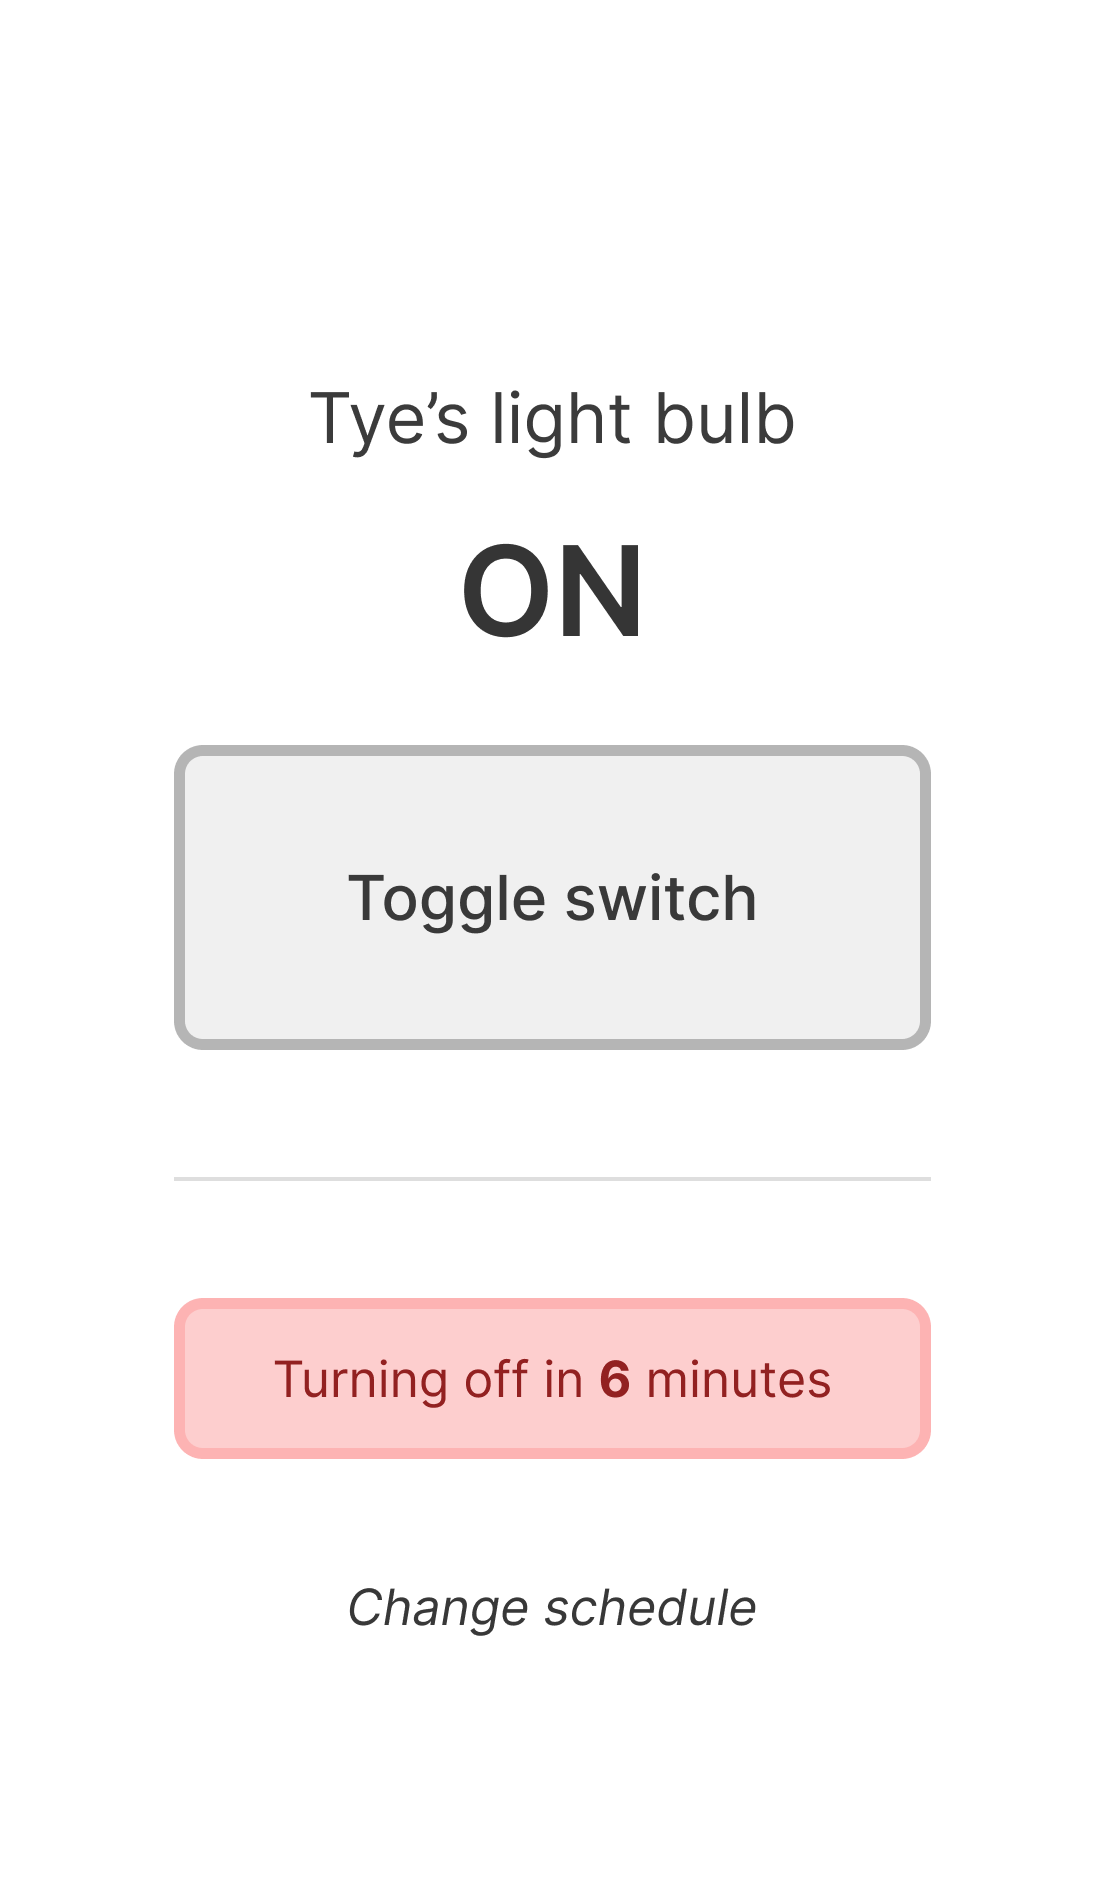
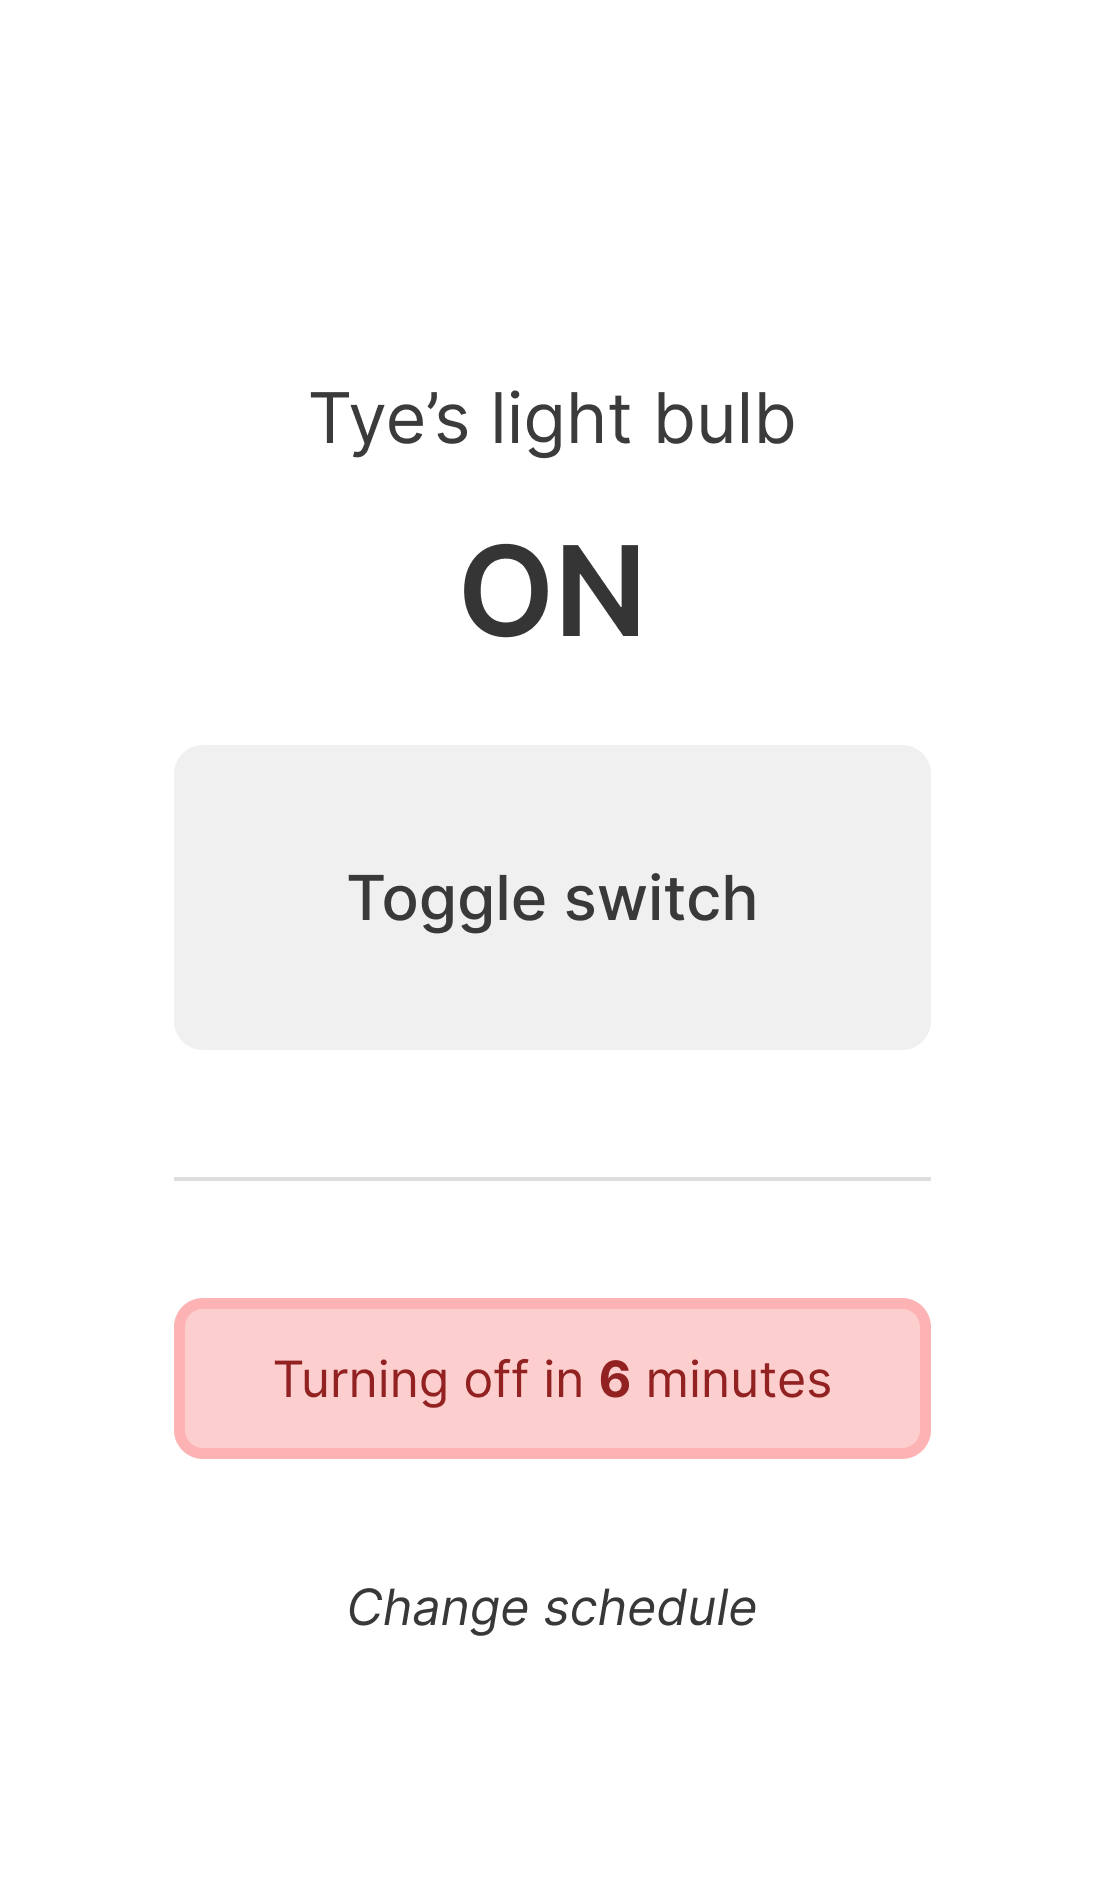
Update & Add modal

Changed region(s): [[0.1538, 0.3734, 0.8615, 0.5601]]

diff --git a/Website/index.html b/Website/index.html
@@ -11,11 +11,58 @@
     <title>Remote</title>
   </head>
   <body>
-    <main class="container d-flex flex-column justify-content-center">
-      <h2 class="text-center">[Bulb_Name]</h2>
-      <h1 class="text-center">[Bulb_Status]</h1>
-      <div class="card">
-        <h2 class="card-header font-weight-bold">Toggle switch</h2>
+    <main class="mt-5 container-fluid d-flex flex-column align-items-center">
+      <h2 style="color: #3c3c3c" class="text-center">[Bulb_Name]</h2>
+      <h1 style="color: #353535" class="text-center font-weight-bold">
+        [Bulb_Status]
+      </h1>
+      <button
+        class="btn btn-light col-5 m-3"
+        style="color: #353535; padding: 45px !important"
+        class="font-weight-bold secondaryColour"
+      >
+        Toggle switch
+      </button>
+      <hr class="hr w-100" />
+      <!--add info or alert here-->
+      <a style="text-decoration: none !important" href="#"
+        ><i
+          class="text-center text-decoration-none changeSchedule"
+          style="color: #3c3c3c"
+          >Change schedule</i
+        ></a
+      >
+      <div class="modal" tabindex="-1" role="dialog">
+        <div class="modal-dialog" role="document">
+          <div class="modal-content">
+            <div class="modal-header">
+              <h5 class="modal-title">Modal title</h5>
+              <button
+                type="button"
+                class="close"
+                data-dismiss="modal"
+                aria-label="Close"
+              >
+                <span aria-hidden="true">&times;</span>
+              </button>
+            </div>
+            <div class="modal-body">
+              <p>Modal body text goes here.</p>
+            </div>
+            <div class="modal-footer">
+              <button type="button" class="btn btn-primary">
+                Save changes
+              </button>
+              <button
+                type="button"
+                class="btn btn-secondary"
+                data-dismiss="modal"
+              >
+                Close
+              </button>
+            </div>
+          </div>
+        </div>
       </div>
     </main>
   </body>

diff --git a/Website/styles.css b/Website/styles.css
@@ -1,0 +1,6 @@
+.changeSchedule:hover {
+  color: #777777 !important;
+}
+hr {
+  background: colour #e7e7e7 !important;
+}
